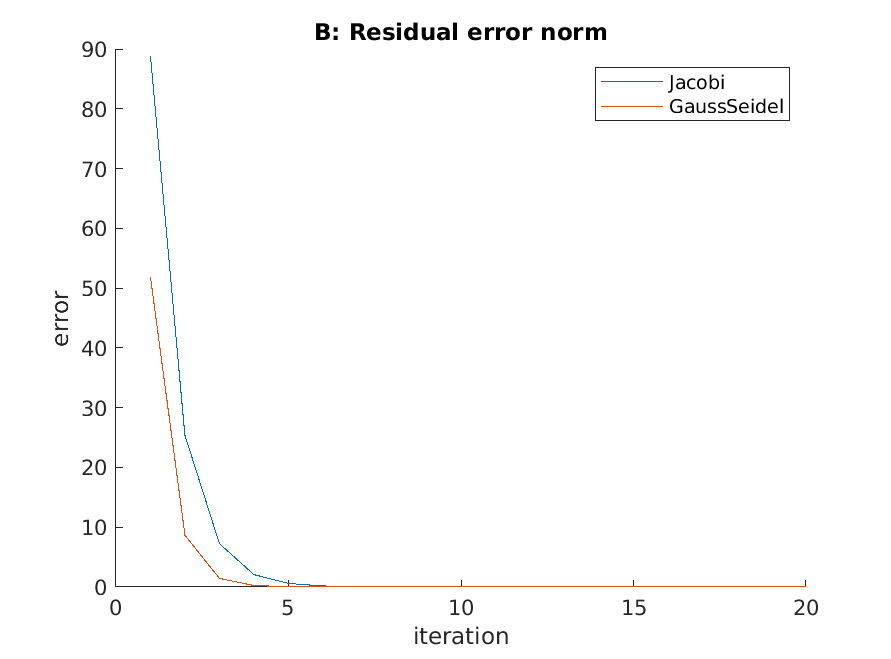
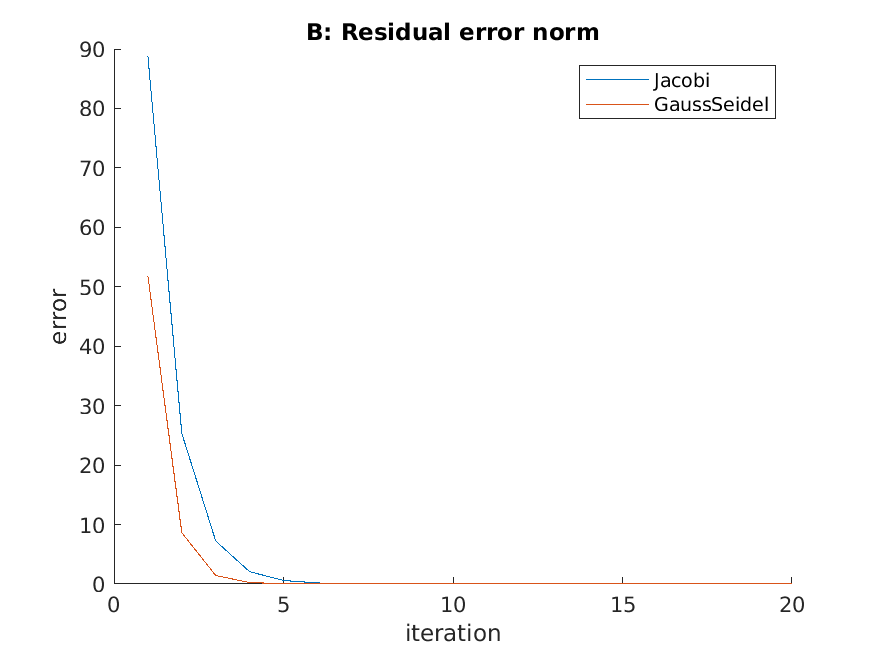
Finish first LU iteration

diff --git a/Matrix_Operations.cpp b/Matrix_Operations.cpp
@@ -7,7 +7,7 @@
 #include <chrono>
 #include <fstream>
 
-#define MY_SIZE 968
+#define MY_SIZE 5//968
 
 char filenumber = '0';
 char path[] = "/home/mikibak/matrix-operations-cpp/plots/error0.csv";
@@ -39,8 +39,8 @@ Matrix LuDecomposition(const Matrix& A, const Matrix& b) {
     }
     /* now the main equation to solve may be defined as L * U * x = b  */
 
-    //L.Print();
-    //U.Print();
+    L.Print();
+    U.Print();
 
     /* solving equation L * y = b for y using forward substitution method */
     Matrix x = Matrix(1, A.GetSizeY(), 0);
@@ -293,9 +293,7 @@ int main()
     //JACOBI:
 
     auto start = std::chrono::high_resolution_clock::now();
-
     Matrix x = Jacobi(*A, *b, max_iter, 1e-6, true);
-
     auto stop = std::chrono::high_resolution_clock::now();
     auto duration = std::chrono::duration_cast<std::chrono::milliseconds>(stop - start);
     std::cout << "Time: " << duration.count() << " ms"  << std::endl;
@@ -305,13 +303,12 @@ int main()
     //GAUSS-SEIDEL:
 
     start = std::chrono::high_resolution_clock::now();
-
     Matrix x2 = GaussSeidel(*A, *b, max_iter, 1e-6, true);
-
     stop = std::chrono::high_resolution_clock::now();
     duration = std::chrono::duration_cast<std::chrono::milliseconds>(stop - start);
     std::cout << "Time: " << duration.count() << " ms"  << std::endl;
     //x2.Print();
+
 
     ValuesForPlots(A, b, max_iter, 1e-6, a1, a2, a3);
 
@@ -321,20 +318,18 @@ int main()
     a2 = -1;
     a3 = -1;
 
-    A = new BandMatrix(MY_SIZE, MY_SIZE, a1, a2, a3);
+    /*A = new BandMatrix(MY_SIZE, MY_SIZE, a1, a2, a3);
     Jacobi(*A, *b, max_iter, 1e-6, true);
     GaussSeidel(*A, *b, max_iter, 1e-6, true);
-    //std::cout << "Metody nie zbiegają się!" << std::endl;
+    std::cout << "Metody nie zbiegają się!" << std::endl;*/
 
-    //GAUSS-SEIDEL:
+    //LU:
 
     start = std::chrono::high_resolution_clock::now();
-
     Matrix LU_result = LuDecomposition(*A, *b);
-
     stop = std::chrono::high_resolution_clock::now();
     duration = std::chrono::duration_cast<std::chrono::milliseconds>(stop - start);
-    //LU_result.Print();
+    LU_result.Print();
     std::cout << "LU decomposition time: " << duration.count() << " ms"  << std::endl;
 
 }

diff --git a/plots_errors_C.m b/plots_errors_C.m
@@ -5,8 +5,8 @@ close all
 ErrorJacobi = csvread('/home/mikibak/matrix-operations-cpp/plots/error2.csv')
 ErrorGaussSeidel = csvread('/home/mikibak/matrix-operations-cpp/plots/error3.csv')
 hold on
-semilogy(ErrorJacobi);
-semilogy(ErrorGaussSeidel);
+semilogy(1:1000, ErrorJacobi);
+semilogy(1:1000, ErrorGaussSeidel);
 legend('Jacobi', 'GaussSeidel');
 title("C: Residual error norm");
 ylabel("error");

diff --git a/plots_errors.m b/plots_errors.m
@@ -7,9 +7,9 @@ ErrorGaussSeidel = csvread('/home/mikibak/matrix-operations-cpp/plots/error1.csv
 hold on
 semilogy(1:20, ErrorJacobi(1:20));
 semilogy(1:20, ErrorGaussSeidel(1:20));
-legend('Jacobi', 'GaussSeidel');
 title("B: Residual error norm");
 ylabel("error");
 xlabel("iteration");
+legend('Jacobi', 'GaussSeidel');
 hold off
 saveas(gcf, '/home/mikibak/matrix-operations-cpp/plots/errors.png');
